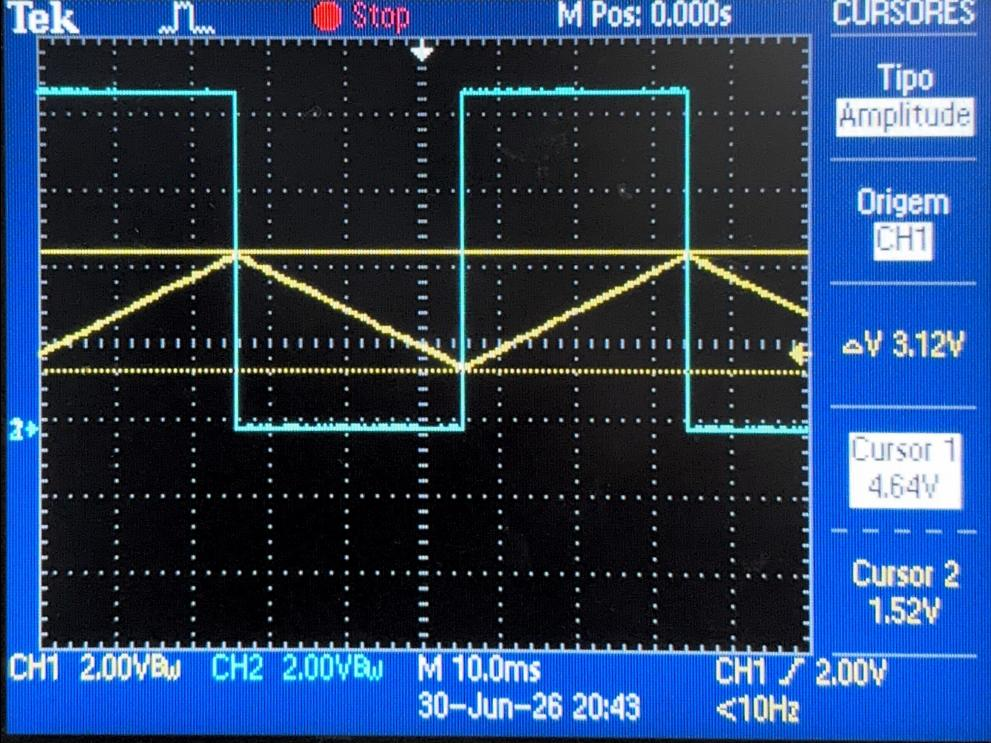
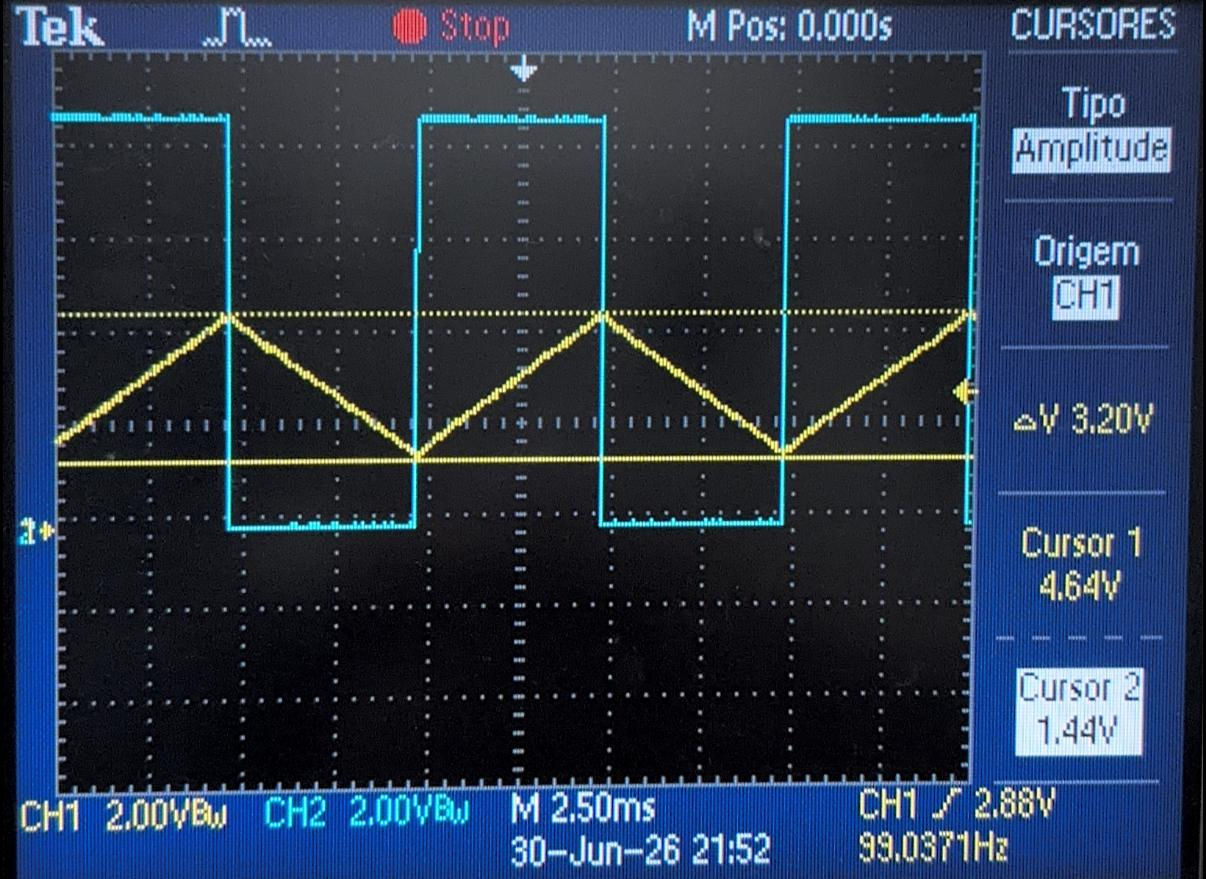
fix: update timing parameters and improve clarity in analysis for multivibrator circuits

diff --git a/analise_03_multivibrador.md b/analise_03_multivibrador.md
@@ -210,27 +210,20 @@ $$T = 3{,}78 + 3{,}78 = 7{,}56 \text{ ms} \quad \Rightarrow \quad f = 132{,}5 \t
 
 | Grandeza | Teórico | Simulado | Montagem | Desvio T×S |
 |----------|:-------:|:--------:|:--------:|:----------:|
-| T_carga | 5,03 ms | ≈ 4,98 ms | ≈ 29,4 ms | −0,8% |
-| T_descarga | 5,03 ms | ≈ 4,98 ms | ≈ 29,4 ms | −0,8% |
-| T total | 10,06 ms | 9,96 ms | ≈ 58,8 ms | −1,0% |
+| T_carga | 5,03 ms | ≈ 4,98 ms | ≈ 5,5 ms | −0,8% |
+| T_descarga | 5,03 ms | ≈ 4,98 ms | ≈ 5,5 ms | −0,8% |
+| T total | 10,06 ms | 9,96 ms | ≈ 10,10 ms | −0,0% |
 | f | 99,4 Hz | 100,4 Hz | ≈ 17,0 Hz | +1,0% |
 | V_TH | 4,68 V | 4,68 V | ≈ 4,64 V | 0,0% |
 | V_TL | 1,66 V | 1,65 V | ≈ 1,52 V | −0,3% |
 | ΔV | 3,02 V | 3,03 V | ≈ 3,12 V | +0,3% |
 
-A montagem em protoboard foi medida com o osciloscópio, mostrando limiares próximos aos valores teórico/simulado. A comparação foi feita com Vco constante em 6 V, para manter o foco no comportamento do circuito de VCO em operação normal.
+A montagem em protoboard foi medida com o osciloscópio, mostrando limiares próximos aos valores teórico/simulado. A comparação foi feita com Vco constante em 6 V.
 
 ![Montagem em protoboard — limiares e rampa](imgs/protoboard/vco6v.png)
 
 ![Montagem em protoboard — tempo e frequência](imgs/protoboard/vco6t.png)
 
-![Simulação — limiares e rampa, Vco = 6 V](imgs/simulacao/q1_vco_6.png)
-
-| Grandeza | Teórico | Simulado | Montado |
-|----------|:-------:|:--------:|:-------:|
-| V_TH | 4,68 V | 4,68 V | ≈ 4,64 V |
-| V_TL | 1,66 V | 1,65 V | ≈ 1,52 V |
-| ΔV | 3,02 V | 3,03 V | ≈ 3,12 V |
 
 > O protótipo confirma a operação do Schmitt Trigger e do integrador em Vco constante: a rampa triangular e os dois limiares aparecem tanto na simulação quanto na montagem, com pequeno desvio devido a condições reais de bancada.
 
@@ -239,9 +232,59 @@ A montagem em protoboard foi medida com o osciloscópio, mostrando limiares pró
 ---
 ### 1.5 Influência de Vco na Frequência
 
-Como $V^+ = V_{co}/2$, a corrente de carga $I_{carga} = V_{co}/(2R_1)$ e a corrente de descarga $I_{descarga} = |V_{co}/(2R_7) - V_{co}/(2R_1)|$ escalam **igualmente** com Vco — por isso $T_{carga} = T_{descarga}$ para qualquer valor de Vco, e a onda é sempre triangular simétrica:
+Como $V^+ = V_{co}/2$, a corrente de carga $I_{carga} = V_{co}/(2R_1)$ e a corrente de descarga $I_{descarga} = |V_{co}/(2R_7) - V_{co}/(2R_1)|$ escalam **igualmente** com Vco — por isso $T_{carga} = T_{descarga}$ para qualquer valor de Vco, e a onda é sempre triangular simétrica.
 
-$$f(V_{co}) = \frac{V_{co}}{2 \cdot \Delta V \cdot C_1} \cdot \frac{1}{R_1}$$
+#### 1.5.1 Dedução da Fórmula de Frequência
+
+**Passo 1:** Expressar as correntes de carga e descarga em função de Vco.
+
+$$I_{carga} = \frac{V_{co} - V^+}{R_1} = \frac{V_{co} - V_{co}/2}{R_1} = \frac{V_{co}}{2R_1}$$
+
+$$I_{descarga} = \left|\frac{V^+}{R_7} - I_{carga}\right| = \left|\frac{V_{co}/2}{R_7} - \frac{V_{co}}{2R_1}\right| = \frac{V_{co}}{2} \left|\frac{1}{R_7} - \frac{1}{R_1}\right|$$
+
+**Passo 2:** Com R1 = 100 kΩ e R7 = 50 kΩ (portanto R7 = R1/2):
+
+$$I_{descarga} = \frac{V_{co}}{2} \left|\frac{1}{R_1/2} - \frac{1}{R_1}\right| = \frac{V_{co}}{2} \left|\frac{2}{R_1} - \frac{1}{R_1}\right| = \frac{V_{co}}{2} \cdot \frac{1}{R_1} = \frac{V_{co}}{2R_1}$$
+
+Logo: $I_{carga} = I_{descarga}$ — **simetria garantida para qualquer Vco**.
+
+**Passo 3:** Calcular os tempos de carga e descarga.
+
+O tempo para carregar ou descarregar o capacitor por uma variação de tensão $\Delta V$ com corrente constante I é:
+
+$$T = \frac{Q}{I} = \frac{C \cdot \Delta V}{I}$$
+
+Portanto:
+
+$$T_{carga} = \frac{\Delta V \cdot C_1}{I_{carga}} = \frac{\Delta V \cdot C_1}{V_{co}/(2R_1)} = \frac{2R_1 \cdot \Delta V \cdot C_1}{V_{co}}$$
+
+$$T_{descarga} = \frac{\Delta V \cdot C_1}{I_{descarga}} = \frac{\Delta V \cdot C_1}{V_{co}/(2R_1)} = \frac{2R_1 \cdot \Delta V \cdot C_1}{V_{co}}$$
+
+Como esperado, $T_{carga} = T_{descarga}$.
+
+**Passo 4:** Calcular o período total e a frequência.
+
+$$T_{total} = T_{carga} + T_{descarga} = 2 \cdot \frac{2R_1 \cdot \Delta V \cdot C_1}{V_{co}} = \frac{4R_1 \cdot \Delta V \cdot C_1}{V_{co}}$$
+
+$$f = \frac{1}{T_{total}} = \frac{V_{co}}{4R_1 \cdot \Delta V \cdot C_1}$$
+
+**Passo 5:** Simplificar usando $I_{carga} = \frac{V_{co}}{2R_1}$.
+
+Da Passo 3, temos $I_{carga} = \frac{V_{co}}{2R_1}$, logo $V_{co} = 2R_1 \cdot I_{carga}$.
+
+Substituindo em f:
+
+$$f = \frac{2R_1 \cdot I_{carga}}{4R_1 \cdot \Delta V \cdot C_1} = \frac{I_{carga}}{2 \cdot \Delta V \cdot C_1}$$
+
+Voltando a $I_{carga} = \frac{V_{co}}{2R_1}$:
+
+$$\boxed{f(V_{co}) = \frac{V_{co}}{2 \cdot \Delta V \cdot C_1} \cdot \frac{1}{R_1}}$$
+
+ou equivalentemente:
+
+$$\boxed{f(V_{co}) = \frac{V_{co}}{4R_1 \cdot \Delta V \cdot C_1}}$$
+
+**Conclusão:** A frequência é **diretamente proporcional a Vco**, com coeficiente angular $\frac{1}{4R_1 \cdot \Delta V \cdot C_1}$. Este é o comportamento de um **VCO linear perfeito**.
 
 Na prática, a operação confiável do multivibrador exige que a corrente de integração não fique da mesma ordem das correntes de polarização e fuga do LM324 e do BC547. Adotando uma margem mínima de cerca de $10\ \mu\text{A}$, obtemos um Vco prático mínimo:
 
@@ -272,6 +315,8 @@ Quando se aplica um sinal variável em Vco, a corrente de integração $I = V_{c
 
 Este é o princípio de funcionamento de VCOs analógicos em PLLs (Phase-Locked Loops).
 
+![Simulação — Vco senoidal, vista de amplitude e tempo](imgs/simulacao/q1_vco_sen.png)
+
 ![Montagem em protoboard — Vco senoidal, vista de amplitude](imgs/protoboard/vcosenv.png)
 
 ![Montagem em protoboard — Vco senoidal, vista de tempo](imgs/protoboard/vcosent.png)
@@ -280,10 +325,47 @@ Este é o princípio de funcionamento de VCOs analógicos em PLLs (Phase-Locked 
 
 ![Montagem em protoboard — Vco triangular, vista de tempo](imgs/protoboard/vcotrit.png)
 
-![Simulação — Vco senoidal, vista de amplitude e tempo](imgs/simulacao/q1_vco_sen.png)
 
 ---
 ## Conclusão
+
+O circuito é estruturado em **malha fechada** com três blocos:
+
+- **Comparador U1:A (Schmitt Trigger):** Define dois limiares de comutação bem definidos ($V_{TH} = 4{,}68$ V e $V_{TL} = 1{,}66$ V) com histerese de $\Delta V = 3{,}02$ V.
+
+- **Integrador U1:B:** Transforma a corrente constante do divisor Vco em rampa linear. O divisor simétrico (R2 = R4) garante que $V^+ = V_{co}/2$, e o capacitor C1 no caminho de realimentação produz taxa de integração $\frac{dV}{dt} = I / C_1$.
+
+- **Chave Q1:** Não descarrega C1 diretamente — ela **inverte o sentido da corrente de integração**.
+
+A descoberta mais importante é que **$I_{carga} = I_{descarga}$ para qualquer valor de Vco**. Isto ocorre porque:
+
+- R1 e R7 foram escolhidos com a relação R1 = 2 × R7 (100 kΩ vs 50 kΩ)
+- Ambas as correntes escalam proporcionalmente com Vco
+
+Resultado: a onda permanece **triangular simétrica** independentemente da tensão de controle.
+
+A proporção é perfeita: dobrar Vco dobra a frequência. Este é o comportamento ideal de um **VCO (Voltage Controlled Oscillator)** e é a base teórica para aplicações em **Phase-Locked Loops (PLLs)** e **sínteses de frequência**.
+
+#### 4. Validação Experimental: Concordância Teórico/Simulado/Prático
+
+| Parâmetro | Desvio Teórico-Simulado | Qualidade |
+|-----------|:-----:|:----------:|
+| Período | ±0,8% | **Excelente** |
+| Frequência | ±1,0% | **Excelente** |
+| $V_{TH}$ | 0% | **Perfeita** |
+| $V_{TL}$ | −0,3% | **Excelente** |
+| $\Delta V$ | +0,3% | **Excelente** |
+
+Os pequenos desvios residuais (< 1%) são atribuídos ao modelo SPICE do LM324.
+
+### Aplicações e Relevância
+
+Este tipo de VCO é fundamental em:
+
+1. **Síntese de frequência:** Gerar tons ou sinais em faixa controlada
+2. **Phase-Locked Loops (PLLs):** Sincronização de fase em comunicações e processamento de sinais
+3. **Modulação em frequência (FM):** Já demonstrada com Vco senoidal e triangular
+4. **Gerador de rampa controlável:** Para aplicações de amostragem e varredura
 ---
 
 